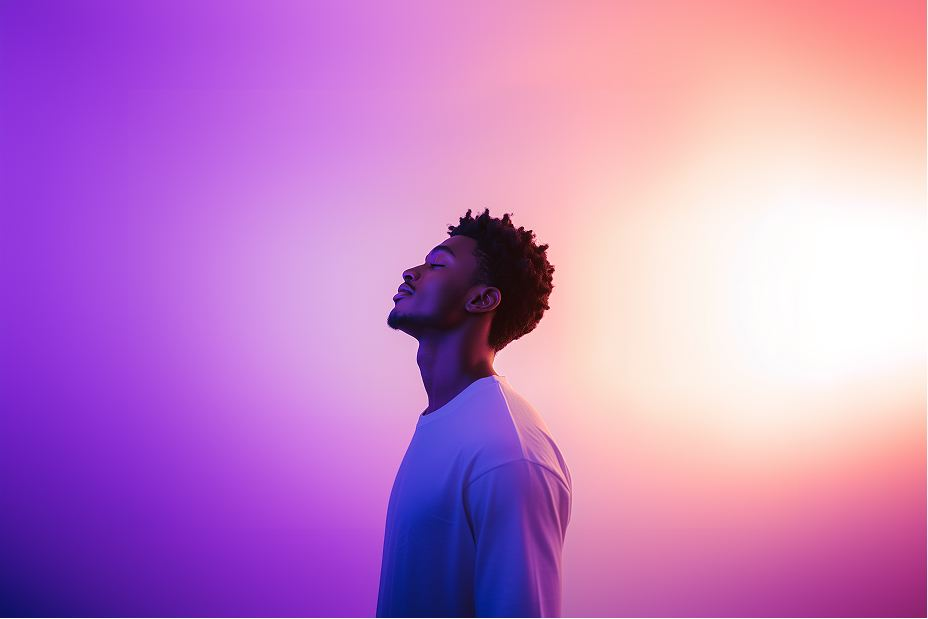
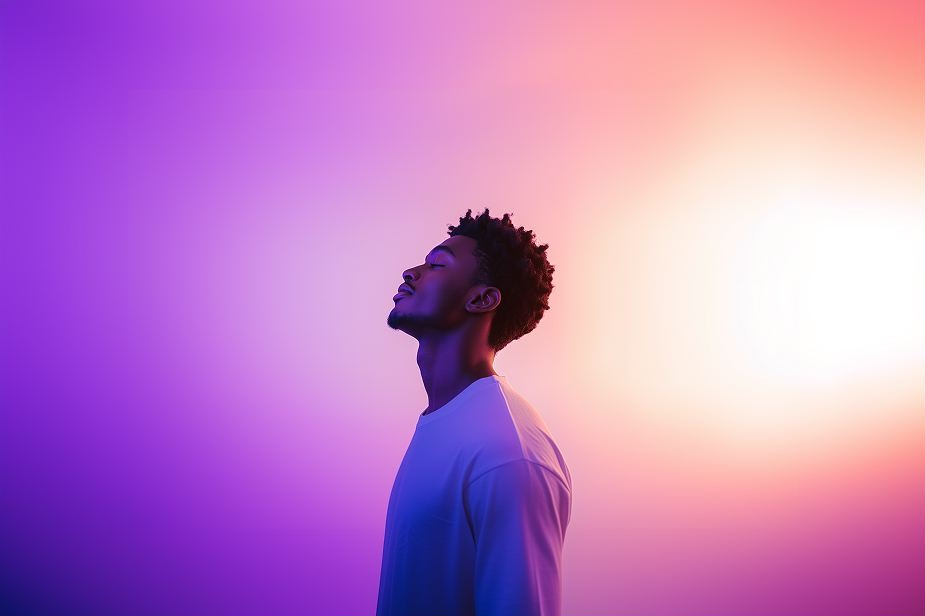
Home: foto do hero sem a linha branca e com a pessoa maior

diff --git a/assets/css/home.css b/assets/css/home.css
@@ -17,7 +17,7 @@
 .h-hero h1 .l2{color:var(--gray-fog)}
 .h-hero h1 .em{display:block;font-size:.34em;line-height:1.1;margin-top:.22em;color:#fff;letter-spacing:-.01em}
 .h-hero .lead{margin:22px 0 0;max-width:52ch}
-.h-pic{position:relative;aspect-ratio:4/5;border-radius:var(--r-xl) var(--r-xl) 0 var(--r-xl);overflow:hidden;background:url('../img/foto-perfil-roxo.jpg') 46% 50%/cover;align-self:stretch;max-height:520px}
+.h-pic{position:relative;aspect-ratio:4/5;border-radius:var(--r-xl) var(--r-xl) 0 var(--r-xl);overflow:hidden;background:#8a3fd6 url('../img/foto-perfil-roxo.jpg') 50% 42%/auto 170% no-repeat;align-self:stretch;max-height:520px}
 .h-pic .badge{position:absolute;right:0;bottom:0;background:#000;color:#fff;padding:20px 24px 4px 26px;border-radius:var(--r-xl) 0 0 0;font-family:var(--display)}
 .h-pic .badge b{display:block;font-weight:800;font-size:clamp(34px,3.6vw,52px);letter-spacing:-.04em;line-height:1}
 .h-pic .badge span{font-size:13px;color:var(--gray-fog)}
